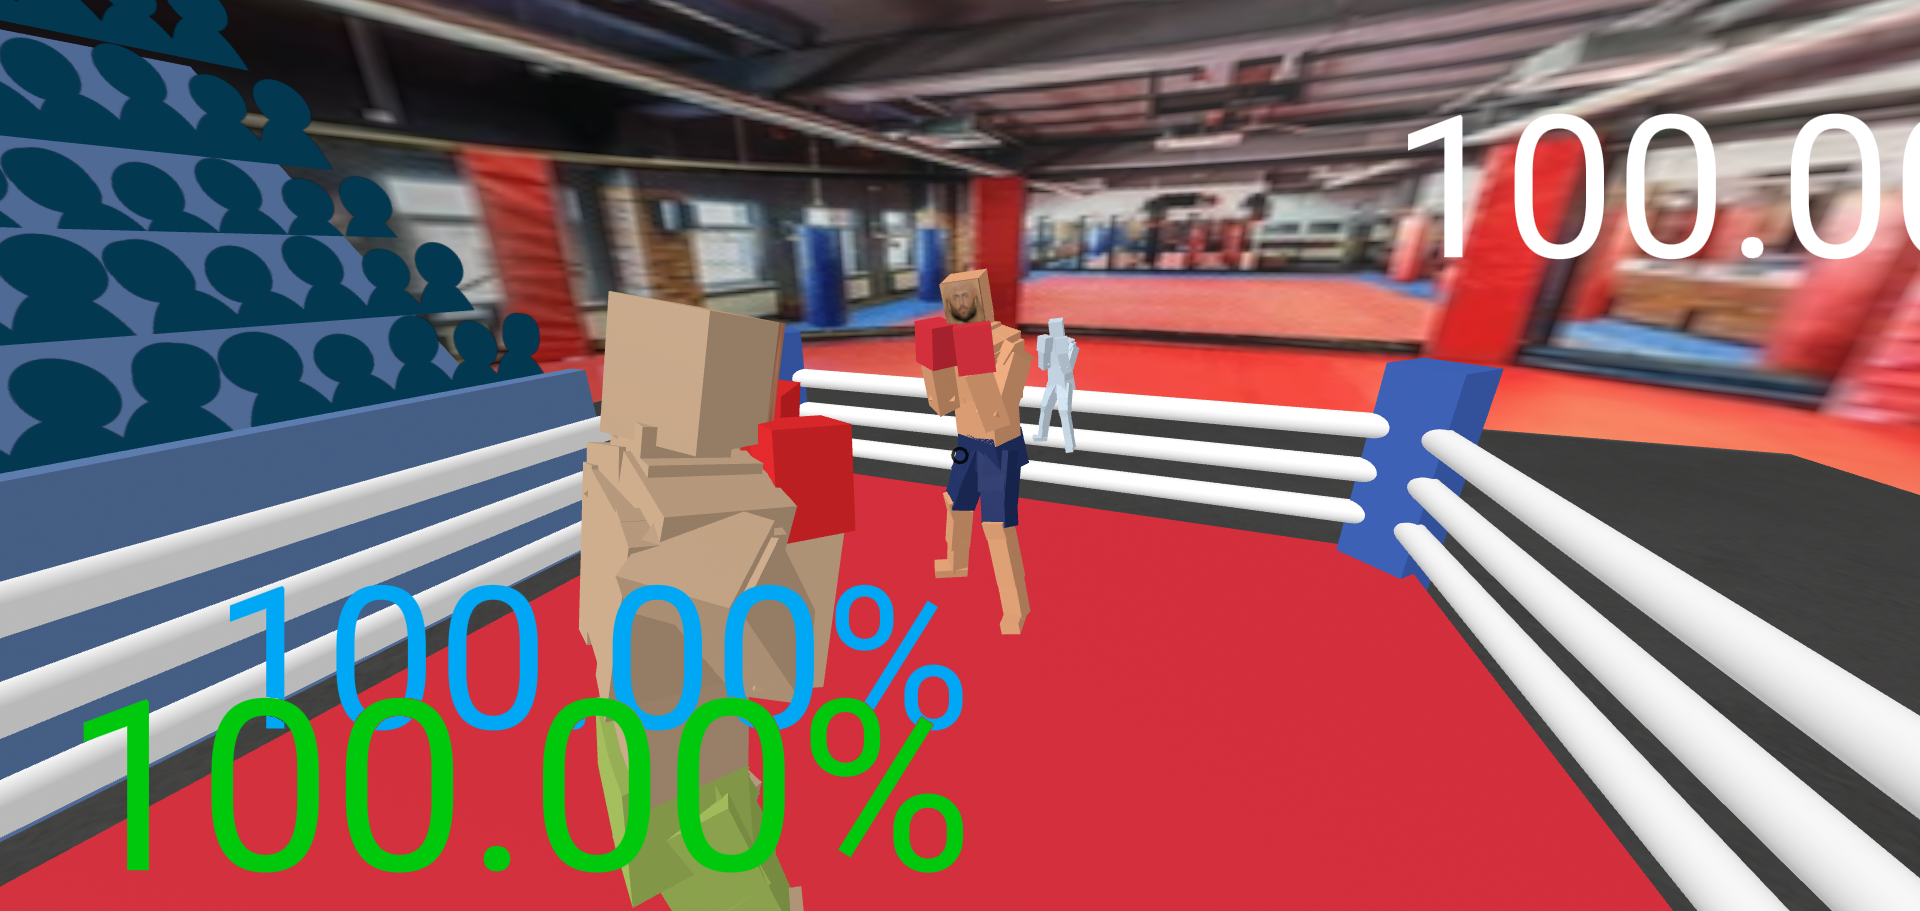
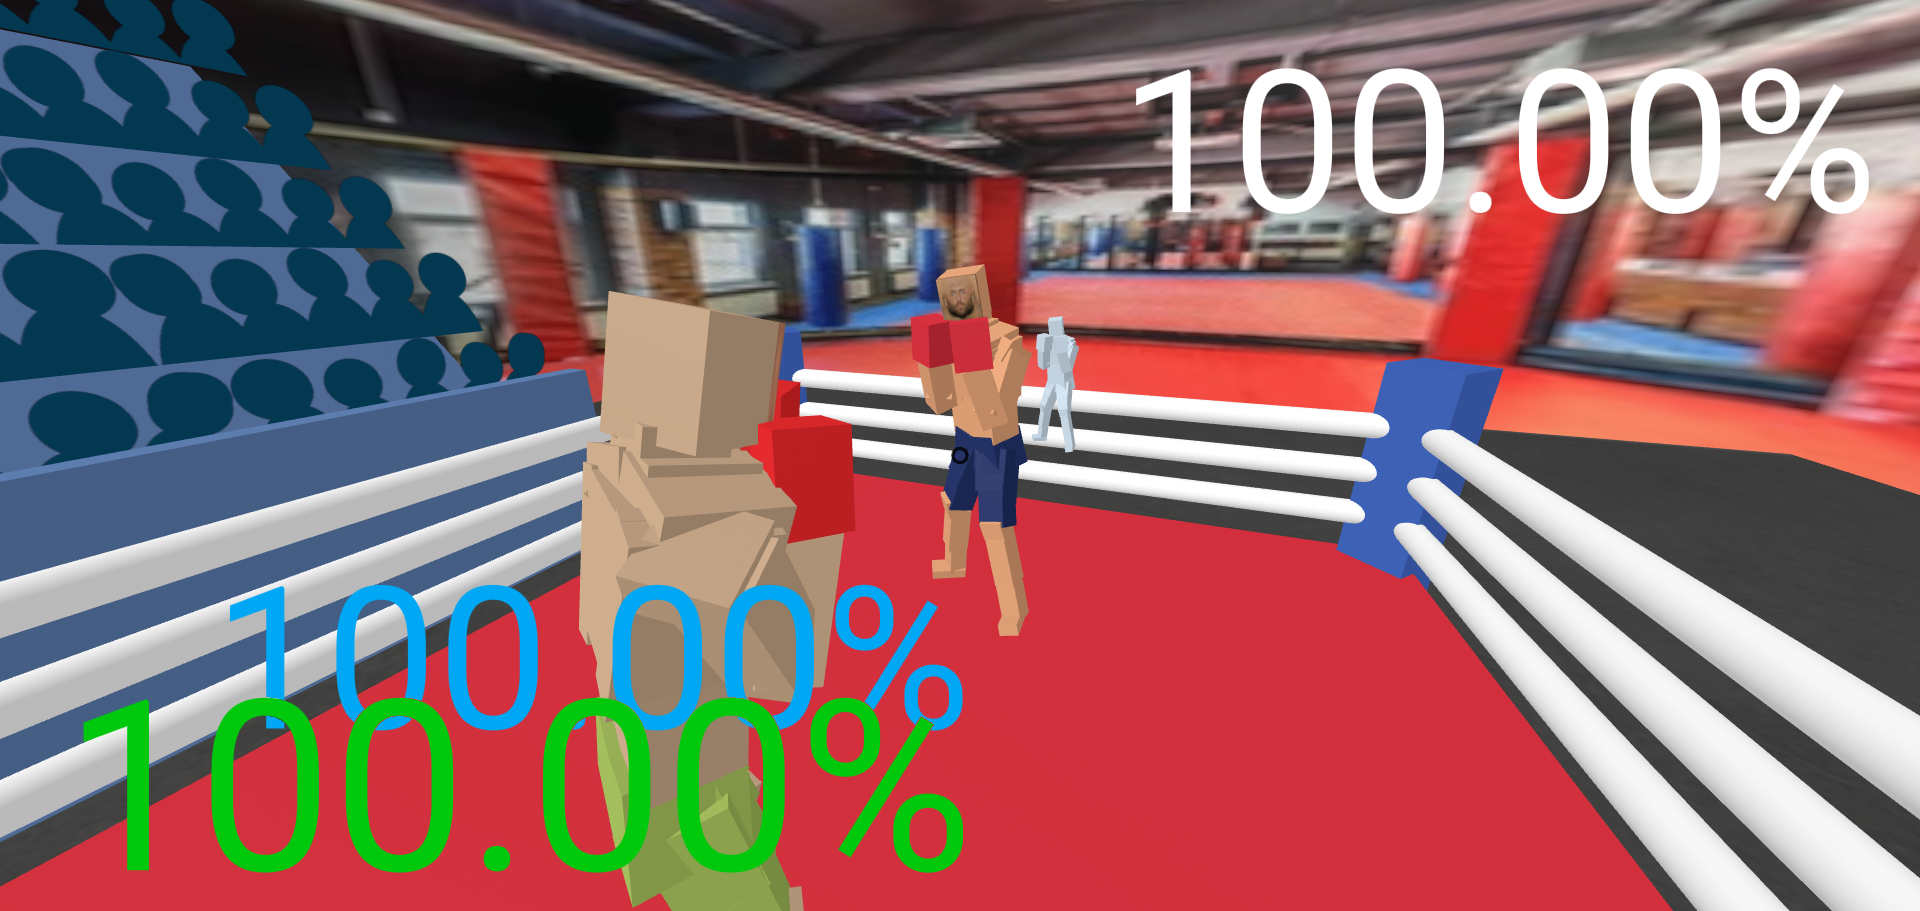
wallieup

diff --git a/EscapingReality/hud.js b/EscapingReality/hud.js
@@ -21,7 +21,7 @@ class headsupdisplay{
         this.playerstaminabar.setAttribute("value", `${this.playerstaminapercent}%`)
         this.playerstaminabar.setAttribute("position", "-.85 -.22 -.6")
         this.playerstaminabar.setAttribute("color", "#00a7f5")
-        this.enemyhealthbar.setAttribute("position", ".45 .30 -.6")
+        this.enemyhealthbar.setAttribute("position", ".15 .35 -.6")
         this.enemyhealthbar.setAttribute("value", `${this.enemyhealthpercent}%`)
         this.statusupdates.setAttribute("src", "#deathScreen")
         this.statusupdates.setAttribute("position", "0 -10 -.49"); this.statusupdates.setAttribute("scale", "1.75 1"); 
@@ -73,7 +73,7 @@ class headsupdisplay{
             this.enemyhealthbar.setAttribute("position", `-1.4 .65 -1.2`);
             this.gamewin == true;
         } else {
-            this.enemyhealthbar.setAttribute("position", ".45 .30 -.6")
+            this.enemyhealthbar.setAttribute("position", ".15 .35 -.6")
             this.enemyhealthbar.setAttribute("value", `${this.enemyhealthpercent.toFixed(2)}%`)
         }
         if(timin.songend == true && this.gamewin == true){

diff --git a/EscapingReality/index.html b/EscapingReality/index.html
@@ -11,18 +11,22 @@
       <image src="eieio.png"></image>
     </div>
     <div class="container" id="banner">
-      <h1>Hottest game on the block</h1>
+      <h1>Est. 1987 | Hottest Game on the Block | Pre-order at GameStop | Introducing a Battlepass</h1>
     </div>
     <div class="container" id="body">
       <div id="snapshot">
-        <img src="eiei04.png">
+        <img src="eieio4.png">
       </div>
       <div id="description">
-        <p>You are The Boxer
+        <p><h3>Hey kid! Has the world knocked you down? <br> 
+           Well I've got good news for you. Listen up! <br>
+           All of these stars are shining just for you. <br>
+           Some day, let's meet again at the top. </h3>
+           <h2>Boy!</h2>
         <ol>
-          <li>Collect Presents</li>
-          <li>Collect Cupcakes</li>
-          <li>Collect Balloons</li>
+          <h3>a</h3>
+          <h3>a</h3>
+          <h3>a</h3>
         </ol>
         If on a tablet or phone, simply rotating the device in order to collect the items.  If on a desktop, use the mouse and arrows keys to collect the items.
       </p>
